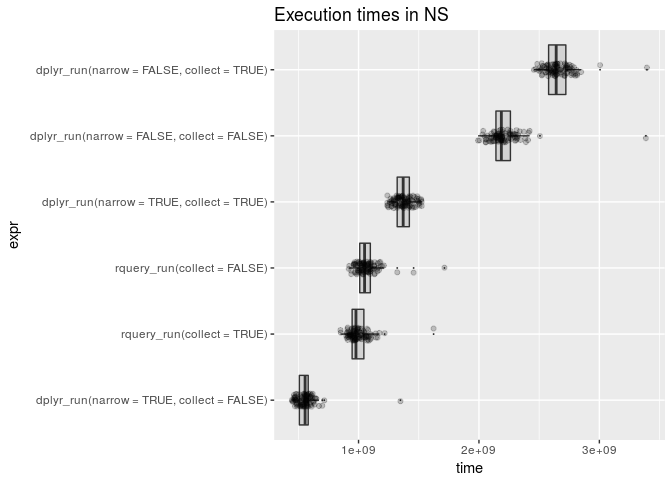
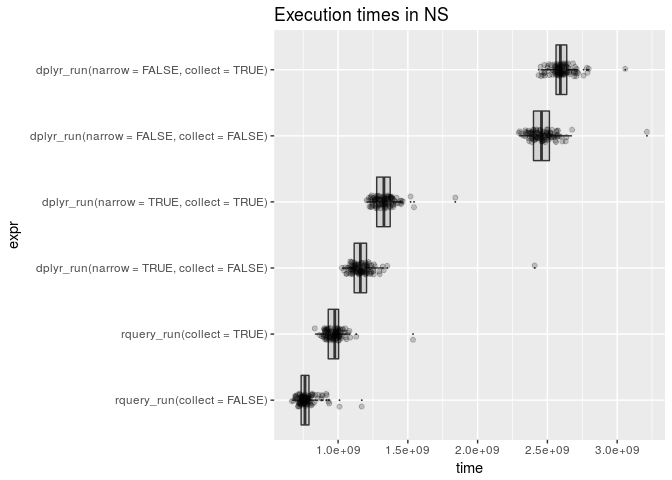
re-run with no-storage on both tests

diff --git a/extras/PerfTest.md b/extras/PerfTest.md
@@ -58,11 +58,9 @@ rquery_run <- function(collect) {
   if(collect) {
     dR <- DBI::dbGetQuery(my_db, sql)
   } else {
-    tnam <- tng()
-    sql <- paste("CREATE TABLE", tnam, "USING PARQUET OPTIONS ('compression'='snappy') AS", 
-                 sql)
-    DBI::dbExecute(my_db, sql)
-    dR <- rquery::dbi_table(my_db, tnam)
+    # count and throw away the data
+    sql <- paste("SELECT COUNT(1) FROM (", sql, ") ctab")
+    dR <- DBI::dbGetQuery(my_db, sql)
   }
   dR
 }
@@ -88,7 +86,8 @@ dplyr_run <- function(narrow, collect) {
   if(collect) {
     dR <- collect(dR)
   } else {
-    dR <- compute(dR)
+    # count and throw away the data (force calculation)
+    dR <- as.data.frame(tally(dR))
   }
   dR
 }
@@ -97,26 +96,19 @@ head(rquery_run(collect=TRUE))
 ```
 
     ##   subjectID           diagnosis probability
-    ## 1         1 positive re-framing   0.8056518
-    ## 2         2 positive re-framing   0.5589742
-    ## 3         3 withdrawal behavior   0.5000000
-    ## 4         4 positive re-framing   0.5589742
-    ## 5         5 withdrawal behavior   0.8401037
-    ## 6         6 withdrawal behavior   0.6706221
+    ## 1         1 withdrawal behavior   0.6163301
+    ## 2         2 positive re-framing   0.6163301
+    ## 3         3 withdrawal behavior   0.8694381
+    ## 4         4 withdrawal behavior   0.5589742
+    ## 5         5 positive re-framing   0.7207128
+    ## 6         6 withdrawal behavior   0.5000000
 
 ``` r
-dR <- rquery_run(collect=FALSE) 
-DBI::dbGetQuery(my_db, 
-                paste("SELECT * FROM", dR$table_name, "LIMIT 6"))
+rquery_run(collect=FALSE) 
 ```
 
-    ##   subjectID           diagnosis probability
-    ## 1     49827 positive re-framing   0.7207128
-    ## 2     49828 withdrawal behavior   0.5000000
-    ## 3     49829 withdrawal behavior   0.7207128
-    ## 4     49830 positive re-framing   0.7207128
-    ## 5     49831 positive re-framing   0.8056518
-    ## 6     49832 positive re-framing   0.6706221
+    ##   count(1)
+    ## 1    2e+05
 
 ``` r
 head(dplyr_run(narrow=FALSE, collect=TRUE))
@@ -125,28 +117,19 @@ head(dplyr_run(narrow=FALSE, collect=TRUE))
     ## # A tibble: 6 x 3
     ##   subjectID diagnosis           probability
     ##       <int> <chr>                     <dbl>
-    ## 1         1 positive re-framing       0.806
-    ## 2         2 positive re-framing       0.559
-    ## 3         3 withdrawal behavior       0.500
-    ## 4         4 positive re-framing       0.559
-    ## 5         5 withdrawal behavior       0.840
-    ## 6         6 withdrawal behavior       0.671
+    ## 1         1 withdrawal behavior       0.616
+    ## 2         2 positive re-framing       0.616
+    ## 3         3 withdrawal behavior       0.869
+    ## 4         4 withdrawal behavior       0.559
+    ## 5         5 positive re-framing       0.721
+    ## 6         6 withdrawal behavior       0.500
 
 ``` r
-head(dplyr_run(narrow=FALSE, collect=FALSE))
+dplyr_run(narrow=FALSE, collect=FALSE)
 ```
 
-    ## # Source:     lazy query [?? x 3]
-    ## # Database:   spark_connection
-    ## # Ordered by: probability, surveyCategory, subjectID
-    ##   subjectID diagnosis           probability
-    ##       <int> <chr>                     <dbl>
-    ## 1         1 positive re-framing       0.806
-    ## 2         2 positive re-framing       0.559
-    ## 3         3 withdrawal behavior       0.500
-    ## 4         4 positive re-framing       0.559
-    ## 5         5 withdrawal behavior       0.840
-    ## 6         6 withdrawal behavior       0.671
+    ##       n
+    ## 1 2e+05
 
 ``` r
 head(dplyr_run(narrow=TRUE, collect=TRUE))
@@ -155,28 +138,19 @@ head(dplyr_run(narrow=TRUE, collect=TRUE))
     ## # A tibble: 6 x 3
     ##   subjectID diagnosis           probability
     ##       <int> <chr>                     <dbl>
-    ## 1         1 positive re-framing       0.806
-    ## 2         2 positive re-framing       0.559
-    ## 3         3 withdrawal behavior       0.500
-    ## 4         4 positive re-framing       0.559
-    ## 5         5 withdrawal behavior       0.840
-    ## 6         6 withdrawal behavior       0.671
+    ## 1         1 withdrawal behavior       0.616
+    ## 2         2 positive re-framing       0.616
+    ## 3         3 withdrawal behavior       0.869
+    ## 4         4 withdrawal behavior       0.559
+    ## 5         5 positive re-framing       0.721
+    ## 6         6 withdrawal behavior       0.500
 
 ``` r
-head(dplyr_run(narrow=TRUE, collect=FALSE))
+dplyr_run(narrow=TRUE, collect=FALSE)
 ```
 
-    ## # Source:     lazy query [?? x 3]
-    ## # Database:   spark_connection
-    ## # Ordered by: probability, surveyCategory, subjectID
-    ##   subjectID diagnosis           probability
-    ##       <int> <chr>                     <dbl>
-    ## 1         1 positive re-framing       0.806
-    ## 2         2 positive re-framing       0.559
-    ## 3         3 withdrawal behavior       0.500
-    ## 4         4 positive re-framing       0.559
-    ## 5         5 withdrawal behavior       0.840
-    ## 6         6 withdrawal behavior       0.671
+    ##       n
+    ## 1 2e+05
 
 Get timings:
 
@@ -198,19 +172,19 @@ print(timings)
 
     ## Unit: milliseconds
     ##                                        expr       min        lq      mean
-    ##                  rquery_run(collect = TRUE)  849.7094  946.3083  999.2847
-    ##                 rquery_run(collect = FALSE)  918.5603 1009.7279 1068.6389
-    ##   dplyr_run(narrow = FALSE, collect = TRUE) 2456.4549 2577.8453 2658.2569
-    ##  dplyr_run(narrow = FALSE, collect = FALSE) 1992.5760 2140.7727 2210.9916
-    ##    dplyr_run(narrow = TRUE, collect = TRUE) 1238.3389 1320.8496 1374.9367
-    ##   dplyr_run(narrow = TRUE, collect = FALSE)  446.8712  506.8260  557.4533
+    ##                  rquery_run(collect = TRUE)  833.7267  929.3922  974.8569
+    ##                 rquery_run(collect = FALSE)  669.4242  734.8816  774.6747
+    ##   dplyr_run(narrow = FALSE, collect = TRUE) 2437.2860 2561.7170 2603.2164
+    ##  dplyr_run(narrow = FALSE, collect = FALSE) 2295.2626 2399.2467 2467.7334
+    ##    dplyr_run(narrow = TRUE, collect = TRUE) 1205.1181 1276.6383 1333.4385
+    ##   dplyr_run(narrow = TRUE, collect = FALSE) 1027.0068 1114.8148 1173.5855
     ##     median        uq      max neval
-    ##   978.5470 1044.6912 1623.464   100
-    ##  1050.2751 1098.0227 1713.482   100
-    ##  2641.4408 2722.1666 3395.182   100
-    ##  2186.0921 2262.4457 3386.330   100
-    ##  1370.6747 1422.3974 1524.730   100
-    ##   556.1155  582.4891 1348.001   100
+    ##   976.3468 1004.0608 1537.182   100
+    ##   762.9225  791.5005 1169.712   100
+    ##  2593.1621 2638.7540 3058.012   100
+    ##  2457.8133 2514.6530 3213.354   100
+    ##  1328.4738 1374.1824 1839.873   100
+    ##  1159.7749 1204.2670 2409.451   100
 
 ``` r
 autoplot(timings)
